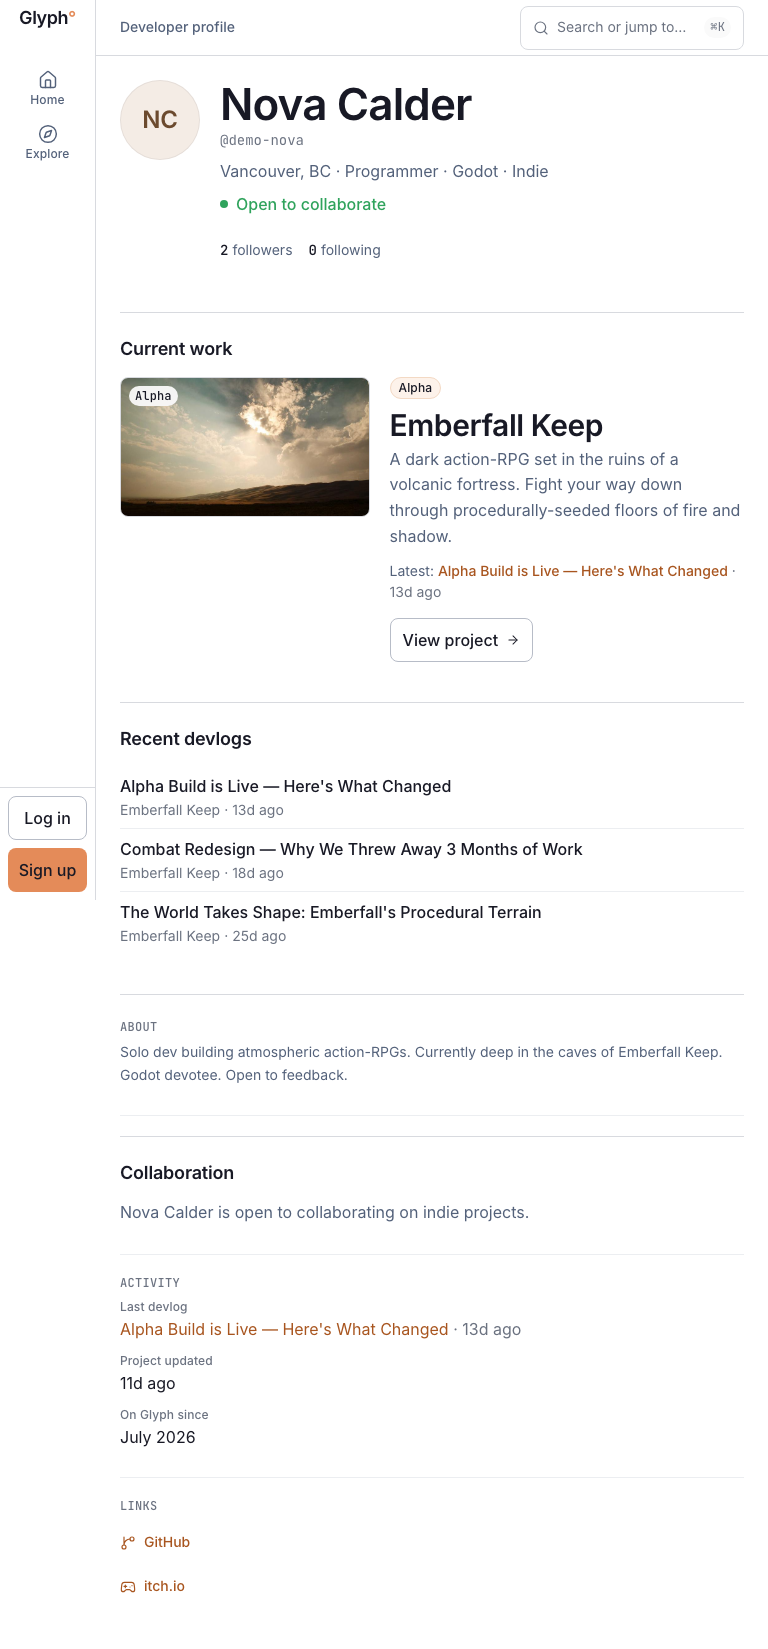
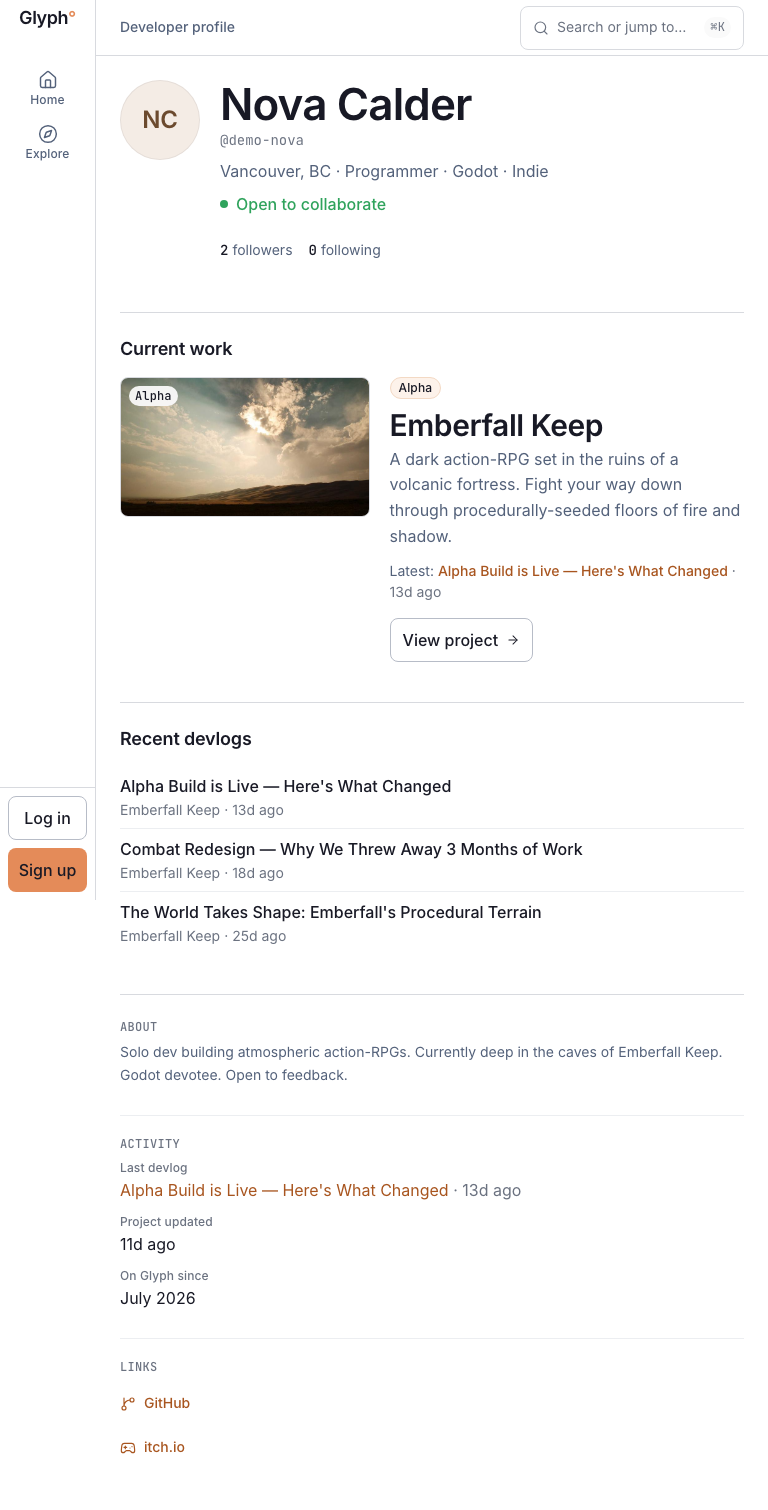
Canonical-four iteration 2: plate type scaling, coverless empty state, panel coherence
Acts on the round-2 re-review (Project passed; Explore/Profile/Dashboard failed on
specific, now-fixed defects).

- ProjectMark title-plate scales its type to the plate via a container-query clamp
  and centres it optically. The Explore feature tile no longer strands a small
  title in an empty band, and the 160px dashboard thumbnail no longer clips
  "Tidewatch" — one fix, two surfaces.
- Coverless project hero: dropped the blurred orb that read as a failed image
  load; the clean tinted band carries the identity.
- Coverless project devlog empty state is now a framed panel (icon + copy + CTA)
  instead of bare text over a white void — the media-poor norm reads finished.
- Panel language unified into two tiers: neutral content panels (rounded-panel +
  border-line + surface-muted, now shared by Currently-building and the empty
  state) and accent-ruled actionable panels (OpportunitySummary, now rounded).
- Profile rail: the collaboration section renders only when there are open posts
  to act on, so availability is stated once (header status) instead of three times.
- Dashboard fixture now uses believable data (Mara Quill / Tidewatch / real devlog
  and applicant lines) so the review surface reads as a product, not scaffolding.

Recaptured all 25 canonical screenshots.

diff --git a/app/design/dashboard/page.tsx b/app/design/dashboard/page.tsx
@@ -6,30 +6,30 @@ import { DevlogRow, type DevlogSummary } from '@/components/devlog/DevlogRow'
 export const metadata = { title: 'Dashboard and feed (fixtures) — Glyph', robots: { index: false, follow: false } }
 
 const ago = (days: number) => new Date(Date.now() - days * 86400000).toISOString()
-const PROJECT = { id: 'p1', title: 'Fixture Project', slug: 'fixture-project', stage: 'alpha', short_description: 'A fixture project used to inspect the dashboard without real data.', updated_at: ago(2) }
+const PROJECT = { id: 'p1', title: 'Tidewatch', slug: 'tidewatch', stage: 'alpha', short_description: 'A tide-driven survival roguelike where the map floods on a fixed clock.', updated_at: ago(2) }
 const BASE: DashboardData = {
-  userId: 'u', username: 'fixture-user', displayName: 'Fixture User', avatarUrl: null, facts: ['Programmer', 'Godot'], missingProfileFields: [],
-  currentProject: PROJECT, otherProjects: [{ ...PROJECT, id: 'p2', title: 'Older fixture project', stage: 'prototype', updated_at: ago(40) }], projectsFailed: false,
-  latestDevlog: { title: 'Fixture devlog title', slug: 'fixture-devlog', published_at: ago(3) },
+  userId: 'u', username: 'maraquill', displayName: 'Mara Quill', avatarUrl: null, facts: ['Programmer', 'Godot'], missingProfileFields: [],
+  currentProject: PROJECT, otherProjects: [{ ...PROJECT, id: 'p2', title: 'Pocket Armada', slug: 'pocket-armada', stage: 'prototype', updated_at: ago(40) }], projectsFailed: false,
+  latestDevlog: { title: 'The save system finally survives a mid-run crash', slug: 'save-system', published_at: ago(3) },
   nextStep: { label: 'Review applications', href: '/collaborate', reason: '2 pending' },
   attention: [
-    { id: 'a1', href: '#', time: ago(0.1), actor: 'Fixture Applicant', text: 'applied for Audio designer', actionLabel: 'Review application' },
-    { id: 'a2', href: '#', time: ago(1), actor: 'Fixture Tester', text: 'requested to test Fixture Project', actionLabel: 'Review request' },
+    { id: 'a1', href: '#', time: ago(0.1), actor: 'Priya Desai', text: 'applied for Audio designer on Tidewatch', actionLabel: 'Review application' },
+    { id: 'a2', href: '#', time: ago(1), actor: 'Sam Okafor', text: 'requested to test Tidewatch', actionLabel: 'Review request' },
   ],
-  attentionFailed: false, unreadNotifications: 3, latestNotification: { at: ago(0.2), actor: 'Fixture Follower' },
-  feedback: [{ id: 'f1', href: '#', time: ago(1), actor: 'Fixture Commenter', devlogTitle: 'Fixture devlog title' }], feedbackFailed: false,
+  attentionFailed: false, unreadNotifications: 3, latestNotification: { at: ago(0.2), actor: 'Nova Calder' },
+  feedback: [{ id: 'f1', href: '#', time: ago(1), actor: 'Theo Park', devlogTitle: 'The save system finally survives a mid-run crash' }], feedbackFailed: false,
   followsCount: 2,
-  network: [{ id: 'n1', href: '#', title: 'A devlog from someone I follow', context: 'Fixture Dev on Their Game', published_at: ago(1) }, { id: 'n2', href: '#', title: 'Another one', context: 'Other Dev on Other Game', published_at: ago(4) }],
+  network: [{ id: 'n1', href: '#', title: 'The fog volume finally reads as depth', context: 'Lena Voss on Emberreach', published_at: ago(1) }, { id: 'n2', href: '#', title: 'Rewrote the pathfinder in a weekend', context: 'Sam Iqbal on Rift Squad', published_at: ago(4) }],
   suggested: [],
-  opportunities: [{ id: 'o1', href: '#', text: 'Seeking Sound designer — Someone Else\'s Game' }, { id: 'o2', href: '#', text: 'A Different Project needs testers (1/8)' }],
+  opportunities: [{ id: 'o1', href: '#', text: 'Seeking Sound designer — Static Bloom' }, { id: 'o2', href: '#', text: 'Harbor Tides needs testers (3/8)' }],
 }
 const NEW_USER: DashboardData = {
-  ...BASE, missingProfileFields: ['Bio', 'Avatar'], currentProject: null, otherProjects: [], latestDevlog: null, nextStep: { label: 'Create your first project', href: '/dashboard/projects/new' },
+  ...BASE, username: 'newcomer', displayName: 'Alex Rivera', missingProfileFields: ['Bio', 'Avatar'], currentProject: null, otherProjects: [], latestDevlog: null, nextStep: { label: 'Create your first project', href: '/dashboard/projects/new' },
   attention: [], unreadNotifications: 0, latestNotification: null, feedback: [], followsCount: 0, network: [],
-  suggested: [{ id: 's1', username: 'suggested-a', display_name: 'Suggested Dev', avatar_url: null, primary_role: 'game_designer' }],
+  suggested: [{ id: 's1', username: 'lena-voss', display_name: 'Lena Voss', avatar_url: null, primary_role: 'game_designer' }],
 }
 const FAILED: DashboardData = { ...BASE, projectsFailed: true, attentionFailed: true, feedbackFailed: true }
-const FEED: DevlogSummary = { title: 'A devlog title in the feed', slug: 's', projectTitle: 'Fixture Project', projectSlug: 'fixture-project', username: 'fixture-dev', authorName: 'Fixture Dev', avatarUrl: null, publishedAt: ago(0.3), preview: '## Heading\n\nThe excerpt is plain text produced from the markdown body, clamped to two lines so the feed stays scannable.' }
+const FEED: DevlogSummary = { title: 'Floor 3 rework: the coastline finally feels alive', slug: 'floor-3', projectTitle: 'Emberreach', projectSlug: 'emberreach', username: 'lena-voss', authorName: 'Lena Voss', avatarUrl: null, publishedAt: ago(0.3), preview: 'Replaced the placeholder torch lighting with a proper dynamic light pass tied to tide height, and the whole level finally reads as one place instead of a set of rooms.' }
 
 /**
  * Development-only fixtures for Dashboard. 404 in production.
@@ -41,7 +41,7 @@ export default async function DashboardFixtures({ searchParams }: { searchParams
   if (process.env.NODE_ENV === 'production') notFound()
   const { full } = await searchParams
   const showAll = full === '1' || full === 'true'
-  const user = { displayName: 'Fixture User', username: 'fixture-user', email: 'fixture@example.invalid', nav: { isAdmin: false, hasPublisherAccount: false, hasStudio: false, hasPublisherContacts: false, unreadNotifications: 3 } }
+  const user = { displayName: 'Mara Quill', username: 'maraquill', email: 'mara@example.invalid', nav: { isAdmin: false, hasPublisherAccount: false, hasStudio: false, hasPublisherContacts: false, unreadNotifications: 3 } }
   return (
     <ShellFrame user={user} headerLabel="Dashboard">
       <div className="flex gap-8">

diff --git a/app/p/[username]/[project-slug]/page.tsx b/app/p/[username]/[project-slug]/page.tsx
@@ -6,7 +6,6 @@ import { Badge } from '@/components/ui/Badge'
 import { DevlogRow } from '@/components/devlog/DevlogRow'
 import { Avatar } from '@/components/ui/Avatar'
 import { Button } from '@/components/ui/Button'
-import { EmptyState } from '@/components/ui/EmptyState'
 import { ErrorState } from '@/components/ui/ErrorState'
 import { MetadataBar } from '@/components/ui/MetadataBar'
 import { MarkdownRenderer } from '@/components/devlog/MarkdownRenderer'
@@ -311,7 +310,6 @@ export default async function PublicProjectPage({
             className="relative -mx-4 overflow-hidden px-5 py-7 sm:-mx-6 sm:rounded-panel sm:px-8 sm:py-9 lg:-mx-8 lg:px-9"
             style={{ backgroundColor: heroTint.bg, color: heroTint.ink, boxShadow: '0 1px 2px rgb(24 25 37 / 0.05)' }}
           >
-            <span aria-hidden className="pointer-events-none absolute -right-10 -top-16 hidden size-56 rounded-full opacity-[0.35] sm:block" style={{ background: `radial-gradient(circle, ${heroTint.ink} 0%, transparent 68%)`, filter: 'blur(2px)' }} />
             <div className="relative mb-3 flex flex-wrap items-center gap-2">
               {stage && <span className="rounded-badge bg-canvas/70 px-2 py-0.5 font-mono text-micro font-semibold" style={{ color: heroTint.ink }}>{stage}</span>}
               {project.is_primary && <span className="rounded-badge bg-canvas/70 px-2 py-0.5 font-mono text-micro font-medium" style={{ color: heroTint.ink }}>Current project</span>}
@@ -366,13 +364,16 @@ export default async function PublicProjectPage({
                 ))}
               </ol>
             ) : (
-              <EmptyState
-                kind="first-use"
-                className="border-y-0 py-2"
-                title="No devlogs yet"
-                description={isOwner ? "The first one starts this project's public record." : `${ownerName} hasn't published a devlog for this project yet.`}
-                action={isOwner ? <Button asChild variant="primary" size="sm"><Link href={`/dashboard/projects/${project.id}/devlogs/new`}>Write the first devlog</Link></Button> : undefined}
-              />
+              <div className="flex flex-col items-start gap-1 rounded-panel border border-line bg-surface-muted p-6 sm:p-8">
+                <span aria-hidden className="mb-2 flex size-9 items-center justify-center rounded-full bg-accent-subtle text-accent-hover">
+                  <PenLine strokeWidth={1.75} className="size-4" />
+                </span>
+                <h3 className="text-h3 font-semibold text-fg">No devlogs yet</h3>
+                <p className="max-w-md text-small text-fg-secondary">
+                  {isOwner ? "The first one starts this project's public record — the history testers and collaborators read to catch up." : `${ownerName} hasn't published a devlog for this project yet. Follow to see the first one.`}
+                </p>
+                {isOwner && <Button asChild variant="primary" size="sm" className="mt-3"><Link href={`/dashboard/projects/${project.id}/devlogs/new`}>Write the first devlog</Link></Button>}
+              </div>
             )}
           </section>
         </div>

diff --git a/components/project/ProjectMark.tsx b/components/project/ProjectMark.tsx
@@ -62,22 +62,28 @@ export function ProjectMark({
   }
 
   const tint = tintFor(id || title)
+  // The title is the cover, so its size must track the plate's size: a container-relative clamp
+  // scales it up in the wide Explore feature and down in a 160px dashboard thumbnail, instead of a
+  // fixed size that looked lost in the big tile and clipped in the small one. Optically centred so
+  // it never strands at the bottom of an empty band.
   return (
     <div
-      className={cn('relative flex flex-col justify-between overflow-hidden rounded-media border border-line p-4 transition-shadow duration-200 group-hover:shadow-raised', ratioClass, className)}
-      style={{ backgroundColor: tint.bg }}
+      className={cn('relative flex flex-col overflow-hidden rounded-media border border-line transition-shadow duration-200 group-hover:shadow-raised', ratioClass, className)}
+      style={{ backgroundColor: tint.bg, containerType: 'size' }}
     >
-      {stageLabel ? (
-        <span className="self-start rounded-badge bg-canvas/80 px-1.5 py-0.5 font-mono text-micro font-medium" style={{ color: tint.ink }}>{stageLabel}</span>
-      ) : <span />}
-      <span
-        aria-hidden
-        className="font-display font-semibold leading-[1.05] tracking-tight [overflow-wrap:anywhere] line-clamp-3"
-        style={{ color: tint.ink, fontSize: ratio === 'square' ? '1.125rem' : '1.5rem' }}
-      >
-        {title}
-      </span>
-      {meta && <span className="mt-2 truncate font-mono text-micro" style={{ color: tint.ink }}>{meta}</span>}
+      {stageLabel && (
+        <span className="absolute left-3 top-3 z-10 rounded-badge bg-canvas/80 px-1.5 py-0.5 font-mono text-micro font-medium" style={{ color: tint.ink }}>{stageLabel}</span>
+      )}
+      <div className="flex flex-1 items-center justify-center px-4 py-8">
+        <span
+          aria-hidden
+          className="text-center font-display font-semibold leading-[1.03] tracking-tight [overflow-wrap:anywhere] line-clamp-3"
+          style={{ color: tint.ink, fontSize: 'clamp(0.95rem, 15cqmin, 2.75rem)' }}
+        >
+          {title}
+        </span>
+      </div>
+      {meta && <span className="absolute inset-x-4 bottom-3 truncate text-center font-mono text-micro" style={{ color: tint.ink, opacity: 0.85 }}>{meta}</span>}
     </div>
   )
 }

diff --git a/components/profile/CollaborationCard.tsx b/components/profile/CollaborationCard.tsx
@@ -6,9 +6,13 @@ type CollabPost = { id: string; post_type: string; role_needed: string | null; r
 
 const CONTRACT_LABELS = Object.fromEntries(CONTRACT_TYPES.map((c) => [c.value, c.label])) as Record<string, string>
 
-/** Can I work with this person? Availability sentence plus their open collaboration posts, as plain rows. */
+/**
+ * Can I work with this person? Only rendered when there are open collaboration posts to act on —
+ * the header already carries the plain "open to collaborate" status, so an availability-only card
+ * would just restate it. Posts are the reason this section earns its space.
+ */
 export function CollaborationCard({ isOpenToCollab, posts, name }: { isOpenToCollab: boolean; posts: CollabPost[]; name: string }) {
-  if (!isOpenToCollab && posts.length === 0) return null
+  if (posts.length === 0) return null
 
   return (
     <Section id="collaboration" title="Collaboration">

diff --git a/app/dev/[username]/page.tsx b/app/dev/[username]/page.tsx
@@ -183,9 +183,11 @@ export default async function ProfilePage({
           <p className="whitespace-pre-line text-small leading-relaxed text-fg-secondary [overflow-wrap:anywhere]">{profile.bio}</p>
         </div>
       )}
-      <div className="border-t border-line-subtle pt-5">
-        <CollaborationCard isOpenToCollab={isOpen} posts={collabPosts ?? []} name={name} />
-      </div>
+      {(collabPosts ?? []).length > 0 && (
+        <div className="border-t border-line-subtle pt-5">
+          <CollaborationCard isOpenToCollab={isOpen} posts={collabPosts ?? []} name={name} />
+        </div>
+      )}
       <div className="border-t border-line-subtle pt-5">
         <h2 className="mb-2 font-mono text-micro font-medium uppercase tracking-wide text-fg-muted">Activity</h2>
         <MetadataBar layout="stacked" items={[

diff --git a/components/dashboard/CurrentWorkPanel.tsx b/components/dashboard/CurrentWorkPanel.tsx
@@ -27,7 +27,7 @@ export function CurrentWorkPanel({
   const stage = project.stage ? labelFor(PROJECT_STAGES, project.stage) : null
 
   return (
-    <div className="group flex flex-col gap-4 rounded-panel bg-surface-muted p-4 ring-1 ring-inset ring-line-subtle sm:flex-row sm:items-start sm:gap-5 sm:p-5">
+    <div className="group flex flex-col gap-4 rounded-panel border border-line bg-surface-muted p-4 sm:flex-row sm:items-start sm:gap-5 sm:p-5">
       <div className="w-full shrink-0 sm:w-40">
         {href ? (
           <Link href={href} aria-label={project.title} className="block">

diff --git a/components/project/OpportunitySummary.tsx b/components/project/OpportunitySummary.tsx
@@ -7,7 +7,7 @@ import { cn } from '@/lib/utils'
  */
 export function OpportunitySummary({ title, children, className }: { title: string; children: React.ReactNode; className?: string }) {
   return (
-    <div className={cn('border-l-2 border-accent bg-accent-subtle/40 py-3 pl-4 pr-4', className)}>
+    <div className={cn('rounded-r-panel border-l-2 border-accent bg-accent-subtle/40 py-3 pl-4 pr-4', className)}>
       <h3 className="text-h3 font-semibold text-fg">{title}</h3>
       <div className="mt-2">{children}</div>
     </div>
